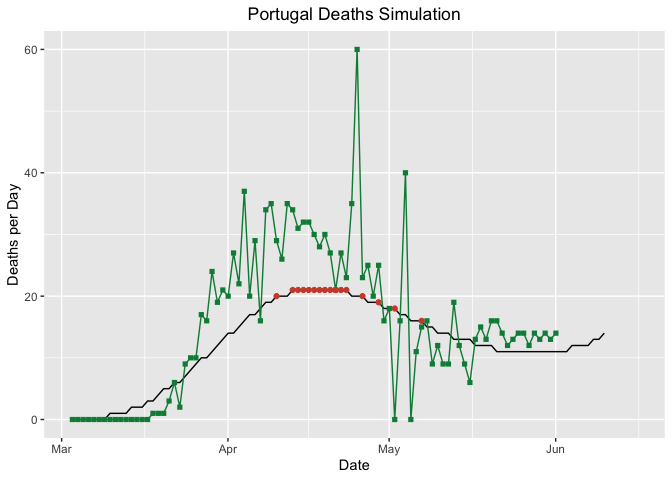
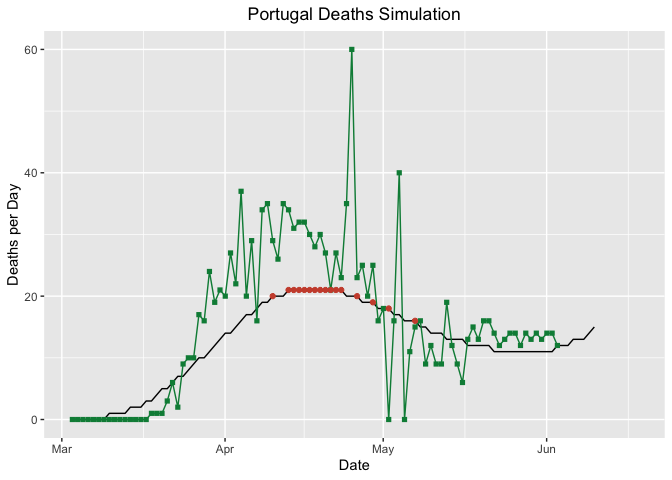
report diário

diff --git a/README.md b/README.md
@@ -1,4 +1,4 @@
-Updated: 2020-06-01
+Updated: 2020-06-03
 
 Synopsis
 --------
@@ -30,13 +30,13 @@ formats. I choose the JSON format.
     data <- as_tibble(dataRaw$records)
     str(data)
 
-    ## Classes 'tbl_df', 'tbl' and 'data.frame':    20711 obs. of  11 variables:
-    ##  $ dateRep                : chr  "01/06/2020" "31/05/2020" "30/05/2020" "29/05/2020" ...
-    ##  $ day                    : chr  "1" "31" "30" "29" ...
-    ##  $ month                  : chr  "6" "5" "5" "5" ...
+    ## Classes 'tbl_df', 'tbl' and 'data.frame':    21129 obs. of  11 variables:
+    ##  $ dateRep                : chr  "03/06/2020" "02/06/2020" "01/06/2020" "31/05/2020" ...
+    ##  $ day                    : chr  "3" "2" "1" "31" ...
+    ##  $ month                  : chr  "6" "6" "6" "5" ...
     ##  $ year                   : chr  "2020" "2020" "2020" "2020" ...
-    ##  $ cases                  : chr  "680" "866" "623" "580" ...
-    ##  $ deaths                 : chr  "8" "3" "11" "8" ...
+    ##  $ cases                  : chr  "759" "545" "680" "866" ...
+    ##  $ deaths                 : chr  "5" "8" "8" "3" ...
     ##  $ countriesAndTerritories: chr  "Afghanistan" "Afghanistan" "Afghanistan" "Afghanistan" ...
     ##  $ geoId                  : chr  "AF" "AF" "AF" "AF" ...
     ##  $ countryterritoryCode   : chr  "AFG" "AFG" "AFG" "AFG" ...
@@ -58,13 +58,13 @@ numeric values and date values into their respective formats.
     data$popData2018 <- as.numeric(data$popData2018)
     str(data)
 
-    ## Classes 'tbl_df', 'tbl' and 'data.frame':    20711 obs. of  11 variables:
-    ##  $ dateRep                : Date, format: "2020-06-01" "2020-05-31" ...
-    ##  $ day                    : num  1 31 30 29 28 27 26 25 24 23 ...
-    ##  $ month                  : num  6 5 5 5 5 5 5 5 5 5 ...
+    ## Classes 'tbl_df', 'tbl' and 'data.frame':    21129 obs. of  11 variables:
+    ##  $ dateRep                : Date, format: "2020-06-03" "2020-06-02" ...
+    ##  $ day                    : num  3 2 1 31 30 29 28 27 26 25 ...
+    ##  $ month                  : num  6 6 6 5 5 5 5 5 5 5 ...
     ##  $ year                   : num  2020 2020 2020 2020 2020 2020 2020 2020 2020 2020 ...
-    ##  $ cases                  : num  680 866 623 580 625 658 591 584 782 540 ...
-    ##  $ deaths                 : num  8 3 11 8 7 1 1 2 11 12 ...
+    ##  $ cases                  : num  759 545 680 866 623 580 625 658 591 584 ...
+    ##  $ deaths                 : num  5 8 8 3 11 8 7 1 1 2 ...
     ##  $ countriesAndTerritories: chr  "Afghanistan" "Afghanistan" "Afghanistan" "Afghanistan" ...
     ##  $ geoId                  : chr  "AF" "AF" "AF" "AF" ...
     ##  $ countryterritoryCode   : chr  "AFG" "AFG" "AFG" "AFG" ...
@@ -78,28 +78,28 @@ Let’s check out a summary of our data:
 
     ##     dateRep                day            month             year     
     ##  Min.   :2019-12-31   Min.   : 1.00   Min.   : 1.000   Min.   :2019  
-    ##  1st Qu.:2020-03-16   1st Qu.: 9.00   1st Qu.: 3.000   1st Qu.:2020  
-    ##  Median :2020-04-13   Median :17.00   Median : 4.000   Median :2020  
-    ##  Mean   :2020-04-05   Mean   :16.41   Mean   : 3.685   Mean   :2020  
-    ##  3rd Qu.:2020-05-08   3rd Qu.:24.00   3rd Qu.: 5.000   3rd Qu.:2020  
-    ##  Max.   :2020-06-01   Max.   :31.00   Max.   :12.000   Max.   :2020  
+    ##  1st Qu.:2020-03-17   1st Qu.: 8.00   1st Qu.: 3.000   1st Qu.:2020  
+    ##  Median :2020-04-14   Median :17.00   Median : 4.000   Median :2020  
+    ##  Mean   :2020-04-06   Mean   :16.13   Mean   : 3.731   Mean   :2020  
+    ##  3rd Qu.:2020-05-09   3rd Qu.:24.00   3rd Qu.: 5.000   3rd Qu.:2020  
+    ##  Max.   :2020-06-03   Max.   :31.00   Max.   :12.000   Max.   :2020  
     ##                                                                      
     ##      cases             deaths         countriesAndTerritories
-    ##  Min.   :-2461.0   Min.   :-1918.00   Length:20711           
+    ##  Min.   :-2461.0   Min.   :-1918.00   Length:21129           
     ##  1st Qu.:    0.0   1st Qu.:    0.00   Class :character       
     ##  Median :    3.0   Median :    0.00   Mode  :character       
-    ##  Mean   :  296.3   Mean   :   17.95                          
-    ##  3rd Qu.:   48.0   3rd Qu.:    1.00                          
+    ##  Mean   :  300.5   Mean   :   18.02                          
+    ##  3rd Qu.:   49.0   3rd Qu.:    1.00                          
     ##  Max.   :48529.0   Max.   : 4928.00                          
     ##                                                              
     ##     geoId           countryterritoryCode  popData2018        continentExp      
-    ##  Length:20711       Length:20711         Min.   :1.000e+03   Length:20711      
-    ##  Class :character   Class :character     1st Qu.:2.108e+06   Class :character  
-    ##  Mode  :character   Mode  :character     Median :9.588e+06   Mode  :character  
-    ##                                          Mean   :4.959e+07                     
+    ##  Length:21129       Length:21129         Min.   :1.000e+03   Length:21129      
+    ##  Class :character   Class :character     1st Qu.:2.083e+06   Class :character  
+    ##  Mode  :character   Mode  :character     Median :9.485e+06   Mode  :character  
+    ##                                          Mean   :4.934e+07                     
     ##                                          3rd Qu.:3.296e+07                     
     ##                                          Max.   :1.393e+09                     
-    ##                                          NA's   :296
+    ##                                          NA's   :306
 
 Ok, something awkward is going on. The **new cases** and **deaths**
 variable have negative values, because, as one may notice, the minimum
@@ -156,49 +156,49 @@ absolute numbers with percentages related to country population:
 <tbody>
 <tr class="odd">
 <td style="text-align: left;">United_States_of_America</td>
-<td style="text-align: right;">1790191</td>
+<td style="text-align: right;">1831821</td>
 </tr>
 <tr class="even">
 <td style="text-align: left;">Brazil</td>
-<td style="text-align: right;">514849</td>
+<td style="text-align: right;">555383</td>
 </tr>
 <tr class="odd">
 <td style="text-align: left;">Russia</td>
-<td style="text-align: right;">405843</td>
+<td style="text-align: right;">423741</td>
 </tr>
 <tr class="even">
 <td style="text-align: left;">United_Kingdom</td>
-<td style="text-align: right;">274762</td>
+<td style="text-align: right;">277985</td>
 </tr>
 <tr class="odd">
 <td style="text-align: left;">Spain</td>
-<td style="text-align: right;">239429</td>
+<td style="text-align: right;">239932</td>
 </tr>
 <tr class="even">
 <td style="text-align: left;">Italy</td>
-<td style="text-align: right;">233019</td>
+<td style="text-align: right;">233515</td>
 </tr>
 <tr class="odd">
 <td style="text-align: left;">India</td>
-<td style="text-align: right;">190535</td>
+<td style="text-align: right;">207615</td>
 </tr>
 <tr class="even">
 <td style="text-align: left;">Germany</td>
-<td style="text-align: right;">181815</td>
+<td style="text-align: right;">182370</td>
 </tr>
 <tr class="odd">
 <td style="text-align: left;">Peru</td>
-<td style="text-align: right;">164476</td>
+<td style="text-align: right;">170039</td>
 </tr>
 <tr class="even">
 <td style="text-align: left;">Turkey</td>
-<td style="text-align: right;">163942</td>
+<td style="text-align: right;">165555</td>
 </tr>
 </tbody>
 </table>
 
 The above table reflects the ranked 10 worst countries in COVID-19
-diagnosed cases. Portugal is ranked **29**, with **32500** total cases.
+diagnosed cases. Portugal is ranked **29**, with **32895** total cases.
 
     DeathsRank <- data %>% 
             group_by(countriesAndTerritories) %>%
@@ -222,49 +222,49 @@ diagnosed cases. Portugal is ranked **29**, with **32500** total cases.
 <tbody>
 <tr class="odd">
 <td style="text-align: left;">United_States_of_America</td>
-<td style="text-align: right;">104383</td>
+<td style="text-align: right;">106181</td>
 </tr>
 <tr class="even">
 <td style="text-align: left;">United_Kingdom</td>
-<td style="text-align: right;">38489</td>
+<td style="text-align: right;">39369</td>
 </tr>
 <tr class="odd">
 <td style="text-align: left;">Italy</td>
-<td style="text-align: right;">33415</td>
+<td style="text-align: right;">33530</td>
 </tr>
 <tr class="even">
 <td style="text-align: left;">Brazil</td>
-<td style="text-align: right;">29314</td>
+<td style="text-align: right;">31199</td>
 </tr>
 <tr class="odd">
 <td style="text-align: left;">France</td>
-<td style="text-align: right;">28802</td>
+<td style="text-align: right;">28940</td>
 </tr>
 <tr class="even">
 <td style="text-align: left;">Spain</td>
-<td style="text-align: right;">27127</td>
+<td style="text-align: right;">27940</td>
 </tr>
 <tr class="odd">
 <td style="text-align: left;">Mexico</td>
-<td style="text-align: right;">9930</td>
+<td style="text-align: right;">10637</td>
 </tr>
 <tr class="even">
 <td style="text-align: left;">Belgium</td>
-<td style="text-align: right;">9467</td>
+<td style="text-align: right;">9505</td>
 </tr>
 <tr class="odd">
 <td style="text-align: left;">Germany</td>
-<td style="text-align: right;">8511</td>
+<td style="text-align: right;">8551</td>
 </tr>
 <tr class="even">
 <td style="text-align: left;">Iran</td>
-<td style="text-align: right;">7797</td>
+<td style="text-align: right;">7942</td>
 </tr>
 </tbody>
 </table>
 
 The above table reflects the ranked 10 worst countries in COVID-19
-deaths. Portugal is ranked **24**, with **1410** total deaths.
+deaths. Portugal is ranked **24**, with **1436** total deaths.
 
 Let us now check the same rates in percentage.
 
@@ -304,15 +304,15 @@ Let us now check the same rates in percentage.
 </tr>
 <tr class="even">
 <td style="text-align: left;">Qatar</td>
-<td style="text-align: right;">56910</td>
+<td style="text-align: right;">60259</td>
 <td style="text-align: right;">2781677</td>
-<td style="text-align: right;">2.0458881</td>
+<td style="text-align: right;">2.1662831</td>
 </tr>
 <tr class="odd">
 <td style="text-align: left;">San_Marino</td>
-<td style="text-align: right;">671</td>
+<td style="text-align: right;">687</td>
 <td style="text-align: right;">33785</td>
-<td style="text-align: right;">1.9860885</td>
+<td style="text-align: right;">2.0334468</td>
 </tr>
 <tr class="even">
 <td style="text-align: left;">Holy_See</td>
@@ -322,39 +322,39 @@ Let us now check the same rates in percentage.
 </tr>
 <tr class="odd">
 <td style="text-align: left;">Andorra</td>
-<td style="text-align: right;">764</td>
+<td style="text-align: right;">844</td>
 <td style="text-align: right;">77006</td>
-<td style="text-align: right;">0.9921305</td>
+<td style="text-align: right;">1.0960185</td>
 </tr>
 <tr class="even">
 <td style="text-align: left;">Bahrain</td>
-<td style="text-align: right;">11398</td>
+<td style="text-align: right;">12311</td>
 <td style="text-align: right;">1569439</td>
-<td style="text-align: right;">0.7262468</td>
+<td style="text-align: right;">0.7844204</td>
 </tr>
 <tr class="odd">
-<td style="text-align: left;">Luxembourg</td>
-<td style="text-align: right;">4018</td>
-<td style="text-align: right;">607728</td>
-<td style="text-align: right;">0.6611510</td>
+<td style="text-align: left;">Kuwait</td>
+<td style="text-align: right;">28649</td>
+<td style="text-align: right;">4137309</td>
+<td style="text-align: right;">0.6924549</td>
 </tr>
 <tr class="even">
-<td style="text-align: left;">Kuwait</td>
-<td style="text-align: right;">27043</td>
-<td style="text-align: right;">4137309</td>
-<td style="text-align: right;">0.6536374</td>
+<td style="text-align: left;">Luxembourg</td>
+<td style="text-align: right;">4020</td>
+<td style="text-align: right;">607728</td>
+<td style="text-align: right;">0.6614801</td>
 </tr>
 <tr class="odd">
 <td style="text-align: left;">Singapore</td>
-<td style="text-align: right;">34884</td>
+<td style="text-align: right;">35836</td>
 <td style="text-align: right;">5638676</td>
-<td style="text-align: right;">0.6186559</td>
+<td style="text-align: right;">0.6355393</td>
 </tr>
 <tr class="even">
-<td style="text-align: left;">United_States_of_America</td>
-<td style="text-align: right;">1790191</td>
-<td style="text-align: right;">327167434</td>
-<td style="text-align: right;">0.5471788</td>
+<td style="text-align: left;">Chile</td>
+<td style="text-align: right;">108686</td>
+<td style="text-align: right;">18729160</td>
+<td style="text-align: right;">0.5803037</td>
 </tr>
 </tbody>
 </table>
@@ -385,9 +385,9 @@ Let us now check the same rates in percentage.
 </tr>
 <tr class="odd">
 <td style="text-align: left;">Belgium</td>
-<td style="text-align: right;">9467</td>
+<td style="text-align: right;">9505</td>
 <td style="text-align: right;">11422068</td>
-<td style="text-align: right;">0.0828834</td>
+<td style="text-align: right;">0.0832161</td>
 </tr>
 <tr class="even">
 <td style="text-align: left;">Andorra</td>
@@ -397,33 +397,33 @@ Let us now check the same rates in percentage.
 </tr>
 <tr class="odd">
 <td style="text-align: left;">Spain</td>
-<td style="text-align: right;">27127</td>
+<td style="text-align: right;">27940</td>
 <td style="text-align: right;">46723749</td>
-<td style="text-align: right;">0.0580583</td>
+<td style="text-align: right;">0.0597983</td>
 </tr>
 <tr class="even">
 <td style="text-align: left;">United_Kingdom</td>
-<td style="text-align: right;">38489</td>
+<td style="text-align: right;">39369</td>
 <td style="text-align: right;">66488991</td>
-<td style="text-align: right;">0.0578878</td>
+<td style="text-align: right;">0.0592113</td>
 </tr>
 <tr class="odd">
 <td style="text-align: left;">Italy</td>
-<td style="text-align: right;">33415</td>
+<td style="text-align: right;">33530</td>
 <td style="text-align: right;">60431283</td>
-<td style="text-align: right;">0.0552942</td>
+<td style="text-align: right;">0.0554845</td>
 </tr>
 <tr class="even">
 <td style="text-align: left;">Sweden</td>
-<td style="text-align: right;">4395</td>
+<td style="text-align: right;">4468</td>
 <td style="text-align: right;">10183175</td>
-<td style="text-align: right;">0.0431594</td>
+<td style="text-align: right;">0.0438763</td>
 </tr>
 <tr class="odd">
 <td style="text-align: left;">France</td>
-<td style="text-align: right;">28802</td>
+<td style="text-align: right;">28940</td>
 <td style="text-align: right;">66987244</td>
-<td style="text-align: right;">0.0429962</td>
+<td style="text-align: right;">0.0432023</td>
 </tr>
 <tr class="even">
 <td style="text-align: left;">Sint_Maarten</td>
@@ -436,8 +436,8 @@ Let us now check the same rates in percentage.
 
 There are evident differences from percentage to absolute numbers in the
 extremes (but in fact Portugal doesn’t change much at the time of this
-report writing). In percentage Portugal is in **30** place for cases and
-**30** for deaths. Is this a fair comparison? There may be missing
+report writing). In percentage Portugal is in **31** place for cases and
+**31** for deaths. Is this a fair comparison? There may be missing
 variables to understand our data: some index of number of urban centers
 per country for example, and also the predominance of respiratory
 diseases, atmospheric pollution and elderly people percentage. Also, the
@@ -535,17 +535,18 @@ effect.
 ![](README_files/figure-markdown_strict/deaths%20with%20sim-1.png)
 
 As we can observe from the graphs, the worst seems to have passed. The
-peak for new cases detected was in **2020-04-07** and the peak for
-deaths in Portugal was in **2020-04-13, 2020-04-14, 2020-04-15,
+peak for new cases detected was in **2020-04-07, 2020-04-08** and the
+peak for deaths in Portugal was in **2020-04-13, 2020-04-14, 2020-04-15,
 2020-04-16, 2020-04-17, 2020-04-18, 2020-04-19, 2020-04-20, 2020-04-21,
 2020-04-22, 2020-04-23**.
 
 Conclusions
 -----------
 
--   Cases: Portugal is ranked **29** in 207 countries, with **32500**
-    total cases. Portugal had the peak of cases in **2020-04-07**.  
--   Deaths: Portugal is ranked **24** in 207 countries, with **1410**
+-   Cases: Portugal is ranked **29** in 207 countries, with **32895**
+    total cases. Portugal had the peak of cases in **2020-04-07,
+    2020-04-08**.  
+-   Deaths: Portugal is ranked **24** in 207 countries, with **1436**
     total deaths. Portugal had the peak of deaths in **2020-04-13,
     2020-04-14, 2020-04-15, 2020-04-16, 2020-04-17, 2020-04-18,
     2020-04-19, 2020-04-20, 2020-04-21, 2020-04-22, 2020-04-23**.
